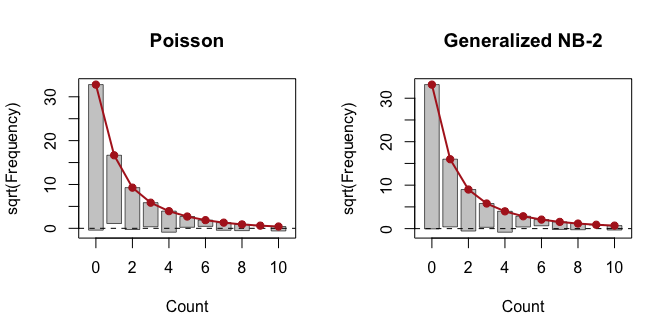
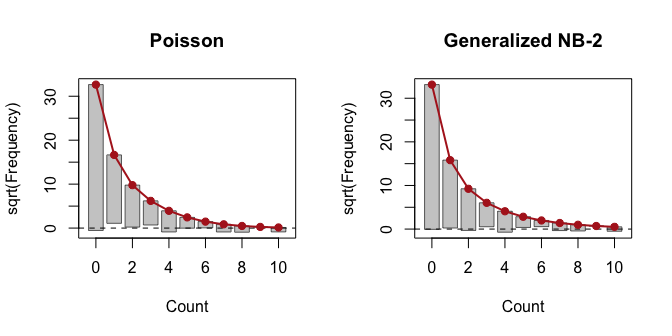
Update Readme

diff --git a/README.md b/README.md
@@ -188,34 +188,33 @@ library(flexCountReg)
 
 data("washington_roads")
 washington_roads$AADT10kplus <- ifelse(washington_roads$AADT > 10000, 1, 0)
-gen.nb2 <- countreg(Total_crashes ~ lnaadt + lnlength + speed50 + AADT10kplus,
+gen.nb2 <- countreg(Total_crashes ~ lnaadt + lnlength + speed50,
                     data = washington_roads, family = "NB2",
                     dis_param_formula_1 = ~ speed50, method = "BFGS")
 summary(gen.nb2)
 #> Call:
-#> countreg(formula = Total_crashes ~ lnaadt + lnlength + speed50 + 
-#>     AADT10kplus, data = washington_roads, family = "NB2", dis_param_formula_1 = ~speed50, 
+#> countreg(formula = Total_crashes ~ lnaadt + lnlength + speed50, 
+#>     data = washington_roads, family = "NB2", dis_param_formula_1 = ~speed50, 
 #>     method = "BFGS")
 #> 
 #> Model: countreg | family: NB2 | optimizer: BFGS
-#> Iterations: 44 
+#> Iterations: 51 
 #> Convergence: successful convergence 
 #> 
 #> Coefficients (standard errors: Hessian-based):
 #>                       Estimate Std. Error z value Pr(>|z|)    
-#> (Intercept)            -7.4015     0.4729  -15.65  < 2e-16 ***
-#> lnaadt                  0.9116     0.0566   16.09  < 2e-16 ***
-#> lnlength                0.8428     0.0700   12.04  < 2e-16 ***
-#> speed50                -0.4699     0.1151   -4.08  4.5e-05 ***
-#> AADT10kplus             0.7697     0.1299    5.92  3.1e-09 ***
-#> ln(alpha):(Intercept)  -1.6192     0.3740   -4.33  1.5e-05 ***
-#> ln(alpha):speed50       1.3059     0.5963    2.19    0.029 *  
+#> (Intercept)            -8.7564     0.4404  -19.88  < 2e-16 ***
+#> lnaadt                  1.0803     0.0518   20.86  < 2e-16 ***
+#> lnlength                0.7588     0.0691   10.98  < 2e-16 ***
+#> speed50                -0.5407     0.1173   -4.61  4.0e-06 ***
+#> ln(alpha):(Intercept)  -1.3233     0.3150   -4.20  2.7e-05 ***
+#> ln(alpha):speed50       1.2670     0.4849    2.61    0.009 ** 
 #> ---
 #> Signif. codes:  0 '***' 0.001 '**' 0.01 '*' 0.05 '.' 0.1 ' ' 1
 #> 
-#> Log-likelihood: -1064.876 | AIC: 2143.752 | BIC: 2180.949 
+#> Log-likelihood: -1082.176 | AIC: 2176.352 | BIC: 2208.235 
 #> N: 1501
-#> LR test vs Poisson: chi-sq = 22.092 on 2 df, p-value = 1.59e-05
+#> LR test vs Poisson: chi-sq = 36.843 on 2 df, p-value = 9.99e-09
 ```
 
 The results are also available as tibbles, and the model can be compared
@@ -223,33 +222,32 @@ with a Poisson base model:
 
 ``` r
 tidy(gen.nb2, conf.int = TRUE)
-#> # A tibble: 7 × 8
+#> # A tibble: 6 × 8
 #>   term        component estimate std.error statistic  p.value conf.low conf.high
 #>   <chr>       <chr>        <dbl>     <dbl>     <dbl>    <dbl>    <dbl>     <dbl>
-#> 1 (Intercept) mean        -7.40     0.473     -15.7  3.28e-55   -8.33     -6.47 
-#> 2 lnaadt      mean         0.912    0.0566     16.1  2.90e-58    0.801     1.02 
-#> 3 lnlength    mean         0.843    0.0700     12.0  2.24e-33    0.706     0.980
-#> 4 speed50     mean        -0.470    0.115      -4.08 4.46e- 5   -0.695    -0.244
-#> 5 AADT10kplus mean         0.770    0.130       5.92 3.13e- 9    0.515     1.02 
-#> 6 ln(alpha):… distribu…   -1.62     0.374      -4.33 1.50e- 5   -2.35     -0.886
-#> 7 ln(alpha):… distribu…    1.31     0.596       2.19 2.85e- 2    0.137     2.47
+#> 1 (Intercept) mean        -8.76     0.440     -19.9  5.78e-88   -9.62     -7.89 
+#> 2 lnaadt      mean         1.08     0.0518     20.9  1.23e-96    0.979     1.18 
+#> 3 lnlength    mean         0.759    0.0691     11.0  4.63e-28    0.623     0.894
+#> 4 speed50     mean        -0.541    0.117      -4.61 4.02e- 6   -0.771    -0.311
+#> 5 ln(alpha):… distribu…   -1.32     0.315      -4.20 2.66e- 5   -1.94     -0.706
+#> 6 ln(alpha):… distribu…    1.27     0.485       2.61 8.98e- 3    0.317     2.22
 glance(gen.nb2)
 #> # A tibble: 1 × 10
 #>   model    family logLik   AIC   BIC    df  nobs n_groups converged vcov_type
 #>   <chr>    <chr>   <dbl> <dbl> <dbl> <int> <int>    <int> <lgl>     <chr>    
-#> 1 countreg NB2    -1065. 2144. 2181.     7  1501       NA TRUE      hessian
+#> 1 countreg NB2    -1082. 2176. 2208.     6  1501       NA TRUE      hessian
 regCompTest(gen.nb2, basemodel = "Poisson", variables = TRUE)$statistics
 #> # A tibble: 8 × 3
 #>   Statistic                  Model BaseModel
 #>   <chr>                      <dbl>     <dbl>
-#> 1 Log-likelihood        -1065.        -1076.
-#> 2 Number of parameters      7             5 
-#> 3 AIC                    2144.         2162.
-#> 4 BIC                    2181.         2188.
-#> 5 LR Test Statistic        22.1          NA 
+#> 1 Log-likelihood        -1082.        -1101.
+#> 2 Number of parameters      6             4 
+#> 3 AIC                    2176.         2209.
+#> 4 BIC                    2208.         2230.
+#> 5 LR Test Statistic        36.8          NA 
 #> 6 LR degrees of freedom     2            NA 
 #> 7 LR p-value                0            NA 
-#> 8 McFadden's Pseudo R^2     0.0103       NA
+#> 8 McFadden's Pseudo R^2     0.0167       NA
 ```
 
 A rootogram shows how well the fitted distribution reproduces the
@@ -360,9 +358,9 @@ summary(gen.nbp)
 #> LR test vs Poisson: chi-sq = 18.145 on 3 df, p-value = 0.000411
 ```
 
-Checking the CURE plot (notice that the CURE plot is MUCH better in this
-case than the NB-2 without the interaction and still better than the
-modified NB-2):
+Checking the CURE plot (notice that the CURE plot is better in this case
+than the NB-2 without the interaction and still better than the modified
+NB-2):
 
 ``` r
 cureplot(gen.nbp, indvar = "lnaadt")
